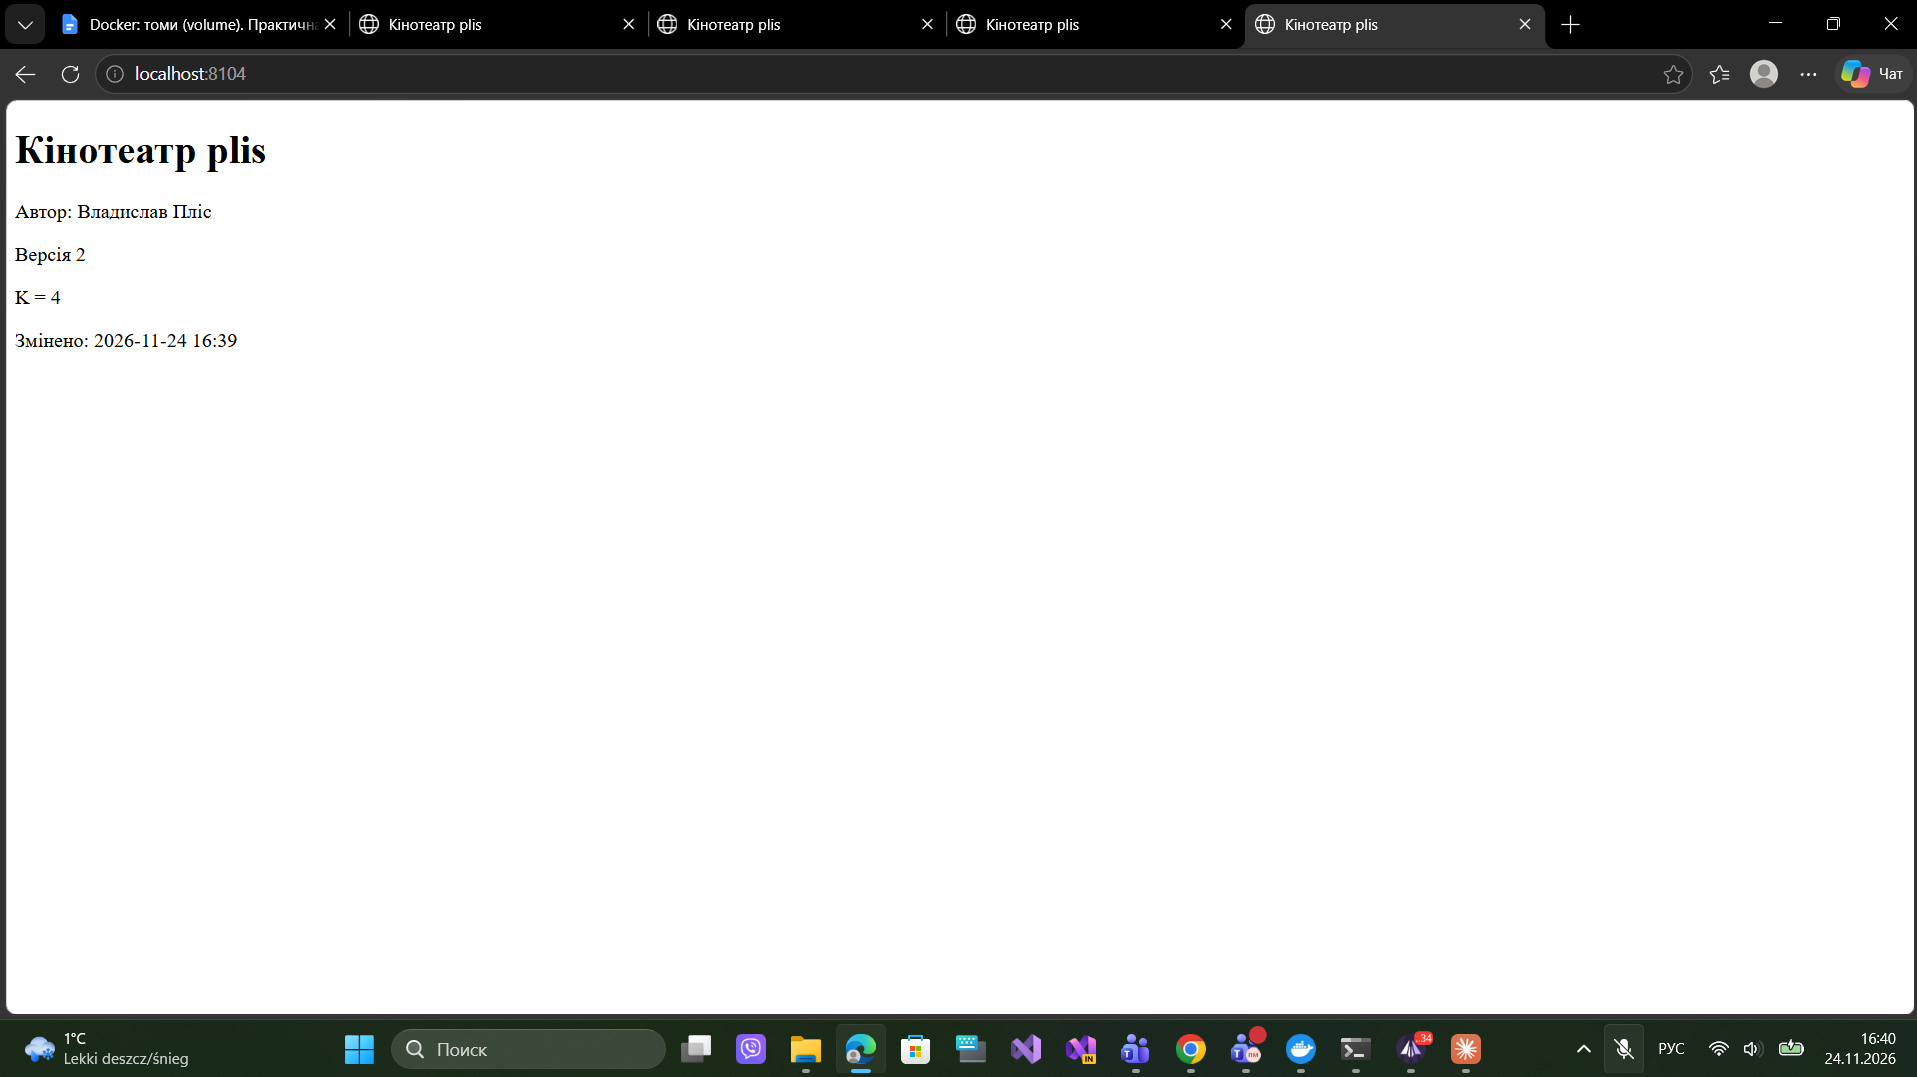
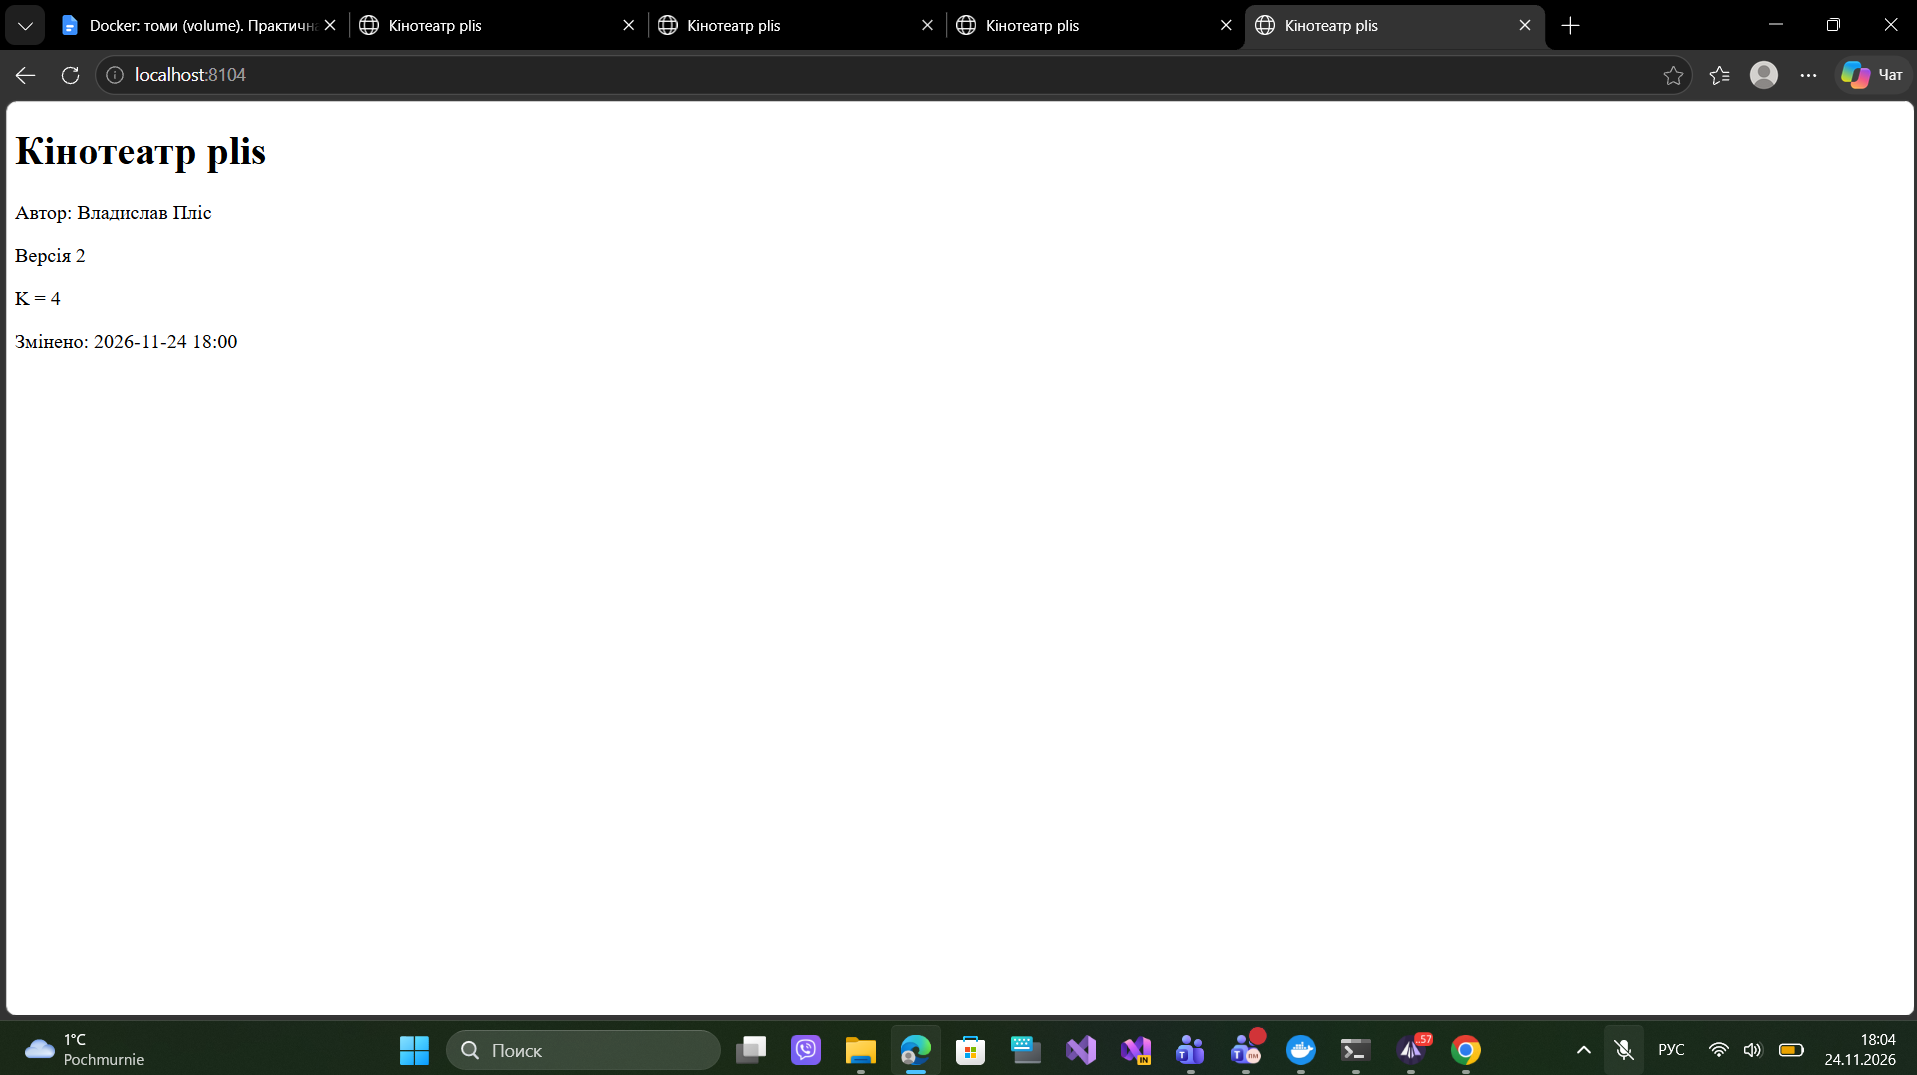
Переробив роботу за правилами: усі скріншоти з системним годинником

diff --git a/README.md b/README.md
@@ -3,6 +3,8 @@
 Автор: Владислав Пліс
 S = `plis`, K = `4`
 
+Роботу перероблено за правилами: усі скріншоти зроблено на весь екран із системним годинником і датою.
+
 Головна ідея роботи: **контейнер тимчасовий, том постійний.** Якщо видалити контейнер, дані залишаються в томі. Якщо видалити сам том, дані зникають.
 
 | Що | Значення |
@@ -48,7 +50,7 @@ docker exec db2_$S mariadb -uroot -proot --default-character-set=utf8mb4 cinema 
 
 | | |
 |---|---|
-| 1_1: db1, 7 фільмів, 1 запис | ![](screenshots/plis_1_1_bez_chasov.png) |
+| 1_1: db1, 7 фільмів, 1 запис | ![](screenshots/plis_1_1.png) |
 | 1_2: db1 видалено, том залишився | ![](screenshots/plis_1_2.png) |
 | 1_3: db2, 7 фільмів, 2 записи | ![](screenshots/plis_1_3.png) |
 
